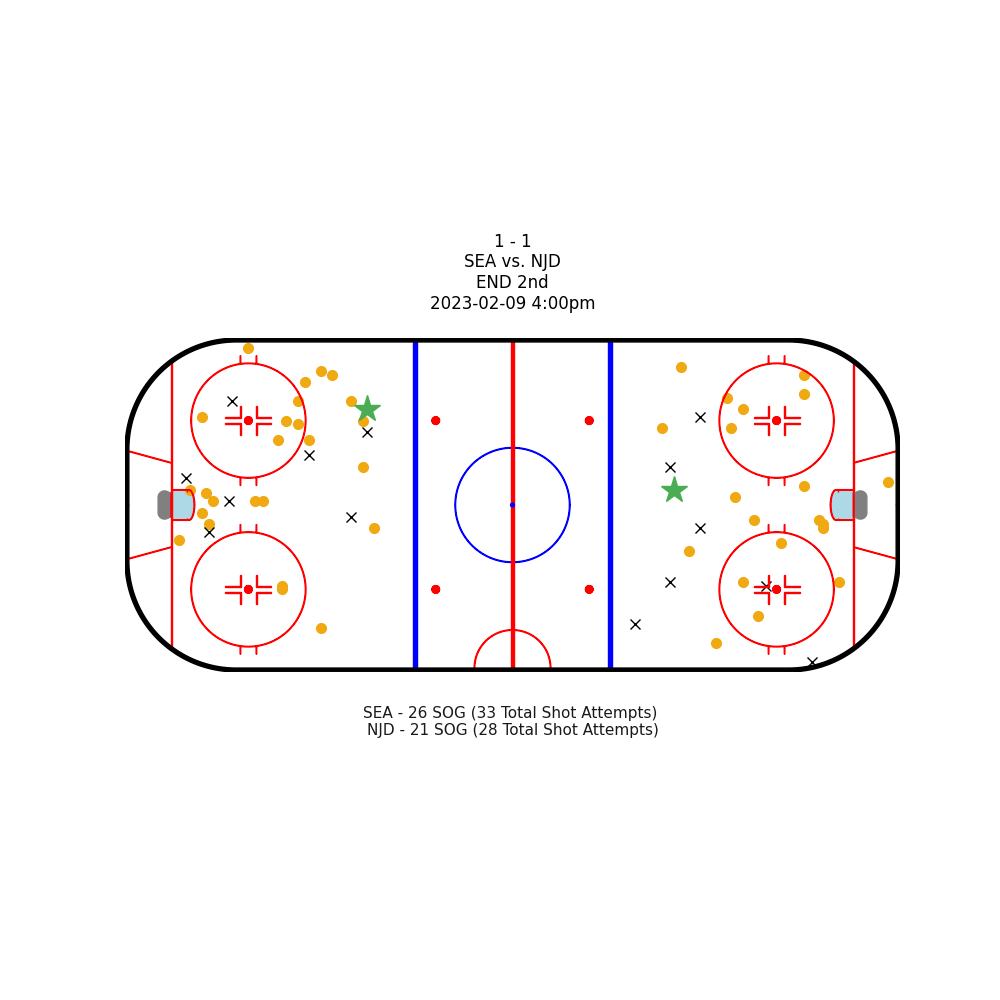
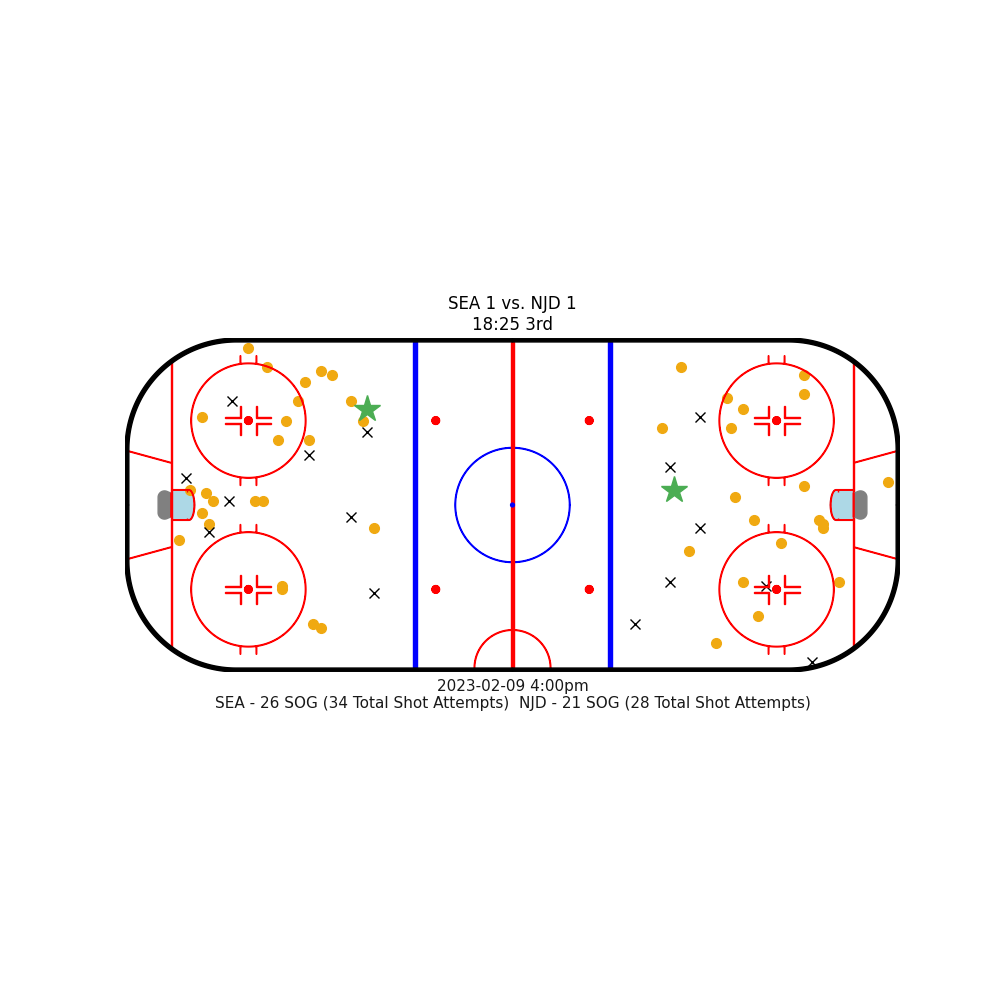
Improved formatting for the shot chart

Changed region(s): [[0.217, 0.682, 0.806, 0.744], [0.434, 0.217, 0.589, 0.341], [0.279, 0.403, 0.31, 0.434]]

diff --git a/examples/NHLShotChart.py b/examples/NHLShotChart.py
@@ -102,13 +102,12 @@ def generate_shot_chart_for_game(gameId):
     home_shot_attempts = result['homeShotAttempts']
 
     # Build our title
-    title_line1 = str(away_goals) + " - " + str(home_goals) + "\n"
-    title_line2 = away_team + " vs. " + home_team + "\n" + gameStatus + "\n"
-    title_line3 = gameStartLocalDateTime + "\n"
-    detail_line4 = away_team + " - " + str(away_sog) + " SOG (" + str(away_shot_attempts) + " Total Shot Attempts) " + \
-        "\n" + home_team + " - " + str(home_sog) + " SOG (" + \
+    title = away_team + " " + \
+        str(away_goals) + " vs. " + home_team + \
+        " " + str(home_goals) + "\n" + gameStatus
+    detail_line = gameStartLocalDateTime + "\n" + away_team + " - " + str(away_sog) + " SOG (" + str(away_shot_attempts) + " Total Shot Attempts) " + \
+        " " + home_team + " - " + str(home_sog) + " SOG (" + \
         str(home_shot_attempts) + " Total Shot Attempts)"
-    title = title_line1 + title_line2 + title_line3
     # --------------------------------------------------------------------------------------------------------
 
     # --------------------------------------------------------------------------------------------------------
@@ -144,7 +143,7 @@ def generate_shot_chart_for_game(gameId):
     # Add title
     plt.title(title)
     # CAPTION
-    plt.text(0, -60, detail_line4,
+    plt.text(0, -53, detail_line,
              ha='center', fontsize=11, alpha=0.9)
 
     # OPTIONAL: Save our plot to a PNG file
